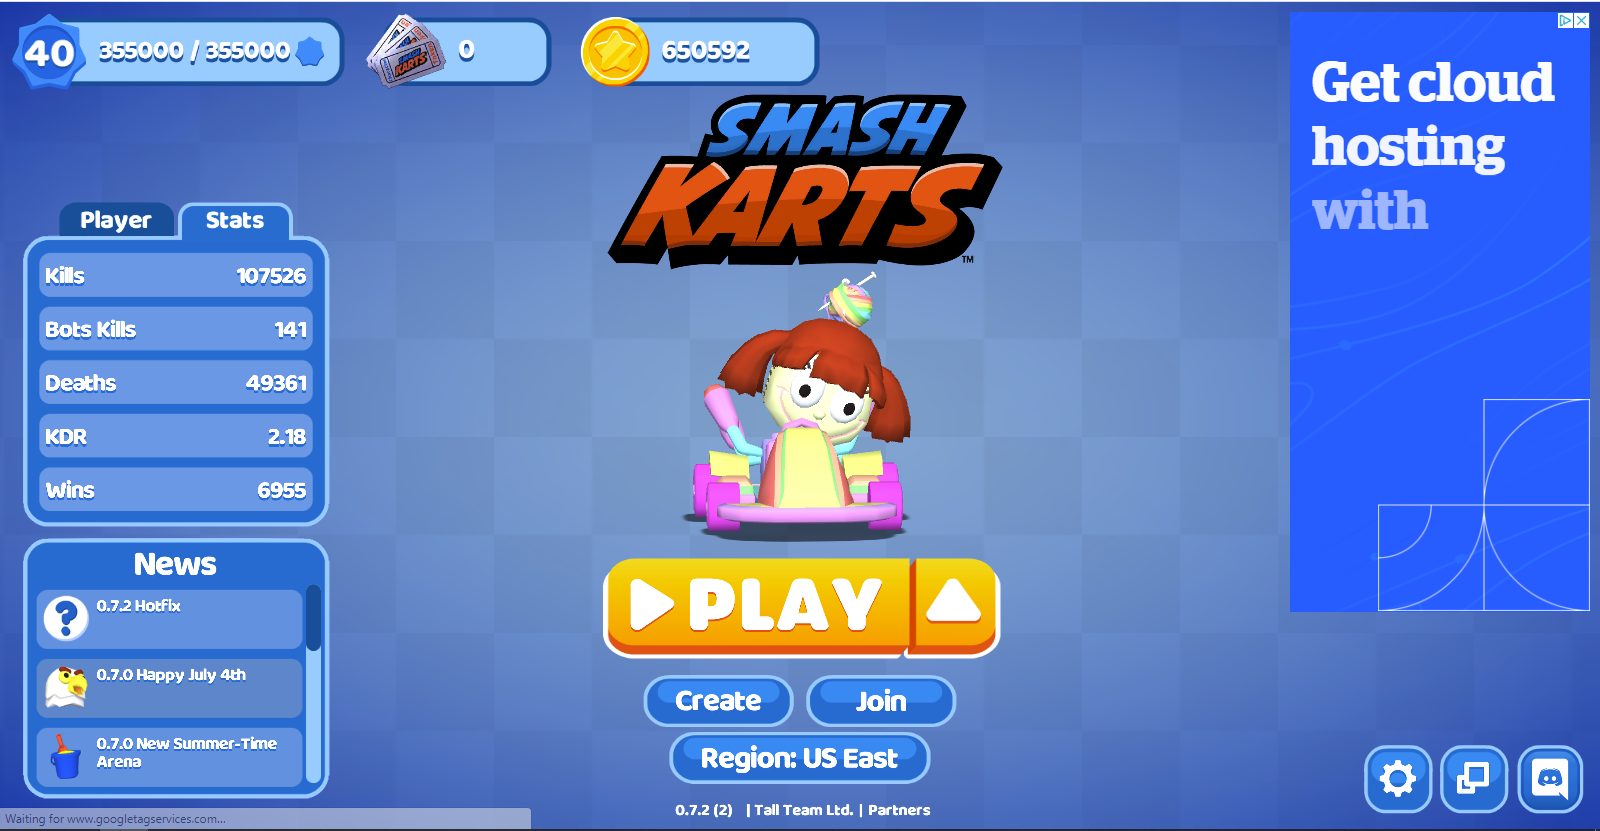
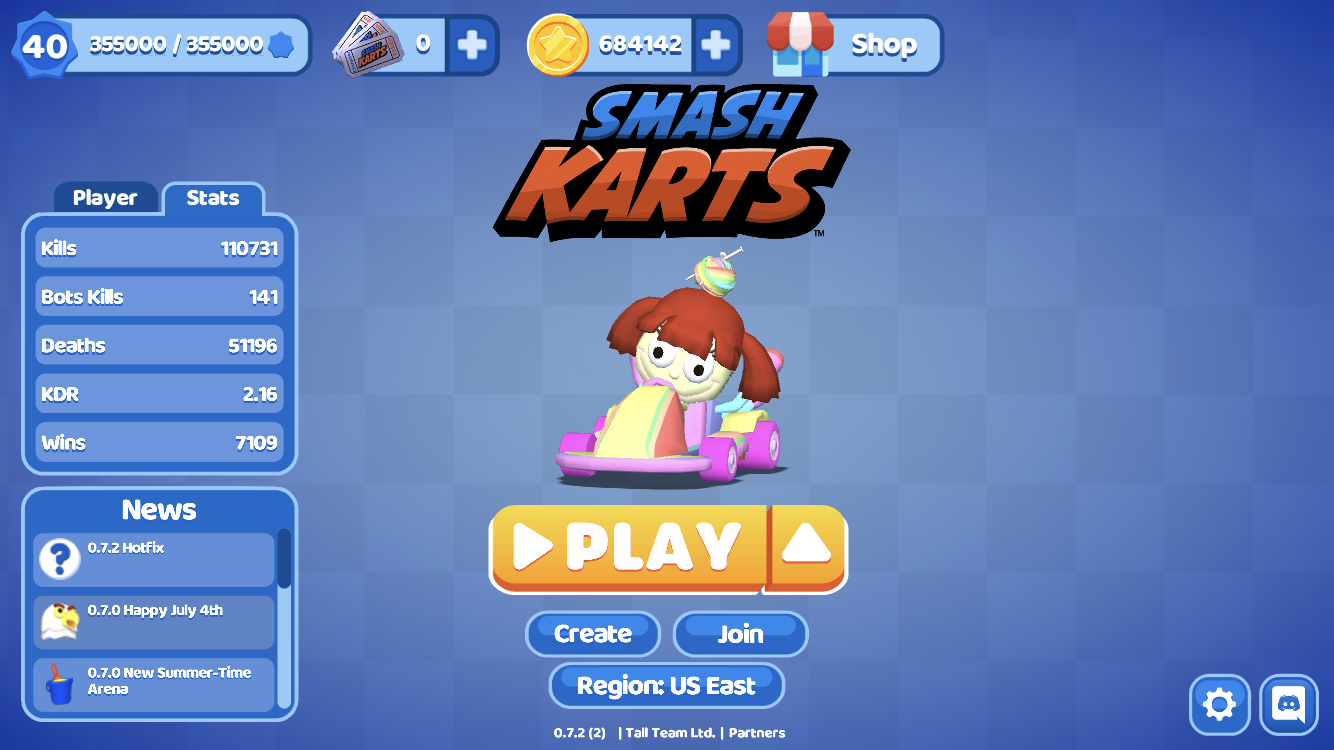
August 19th update

diff --git a/playerList.js b/playerList.js
@@ -73,15 +73,15 @@ let player = [
 	 '2.58',
 	 '',
 	 '7/31/2021'],
-    ['Adam.png',
-	 'Adam' + newPlayer,
-	 18,
-	 361,
-	 64,
-	 369,
-	 '0.98',
-	 9,
-	 '8/11/2021'],
+    ['Adam.png', // plexer
+	 'Adam',
+	 22,
+	 441,
+	 66,
+	 430,
+	 '1.03',
+	 10,
+	 '8/19/2021'],
     ['AimbotLeLe.jpg',
      'Aimbot.LeLe',
      924,
@@ -138,13 +138,13 @@ let player = [
      '5/24/2021'],
     ['AlphaZero.png',
      'AlphaZero',
-     3936,
-     60000,
-     1936,
-     24827,
-     '2.42',
+     4397,
+     68368,
+     1937,
+     28568,
+     '2.39',
      40,
-     '7/29/2021'],
+     '8/19/2021'],
     ['Amrik.png',
      'Amrik',
      239,
@@ -210,13 +210,13 @@ let player = [
      '5/22/2021'],
     ['BAMerica.png',
      'BAM\'erica',
-     330,
-     11267,
-     582,
-     6673,
-     '1.69',
-     9,
-     '5/31/2021'],
+     360,
+     11929,
+     587,
+     7035,
+     '1.70',
+     13,
+     '8/19/2021'],
     ['BazzaBingo.png',
 	 'BazzaBingo',
 	 776,
@@ -253,6 +253,15 @@ let player = [
      '2.58',
      36,
      '8/4/2021'],
+    ['Bonkaroo.png',
+	 'Bonkaroo' + newPlayer,
+	 56,
+	 835,
+	 56,
+	 517,
+	 '1.62',
+	 6,
+	 '8/19/2021'],
     ['boomya.png',
      'boomya',
      3129,
@@ -298,15 +307,15 @@ let player = [
      '1.56',
      30,
      '8/4/2021'],
-    ['BumperBUNNYISGOD.png', // RocketLeague
-     'BumperBUNNYISGOD',
-     2562,
-     36918,
-     2015,
-     16854,
-     '2.19',
-     38,
-     '8/11/2021'],
+    ['ShadowKatSK.png', // RocketLeague
+     'ShadowKatSK',
+     2737,
+     39990,
+     2068,
+     18384,
+     '2.18',
+     40,
+     '8/19/2021'],
     ['cbc.png',
      'cbc',
      208,
@@ -497,7 +506,7 @@ let player = [
      6,
      '5/31/2021'],
     ['DragonBlaster.png',
-	 'DragonBlaster' + newPlayer,
+	 'DragonBlaster',
 	 40,
 	 867,
 	 74,
@@ -569,7 +578,7 @@ let player = [
      22,
      '8/11/2021'],
     ['CATwithHAT.jpg',
-	 'CATwithHAT' + newPlayer,
+	 'CATwithHAT',
 	 754,
 	 10148,
 	 531,
@@ -786,13 +795,13 @@ let player = [
      '8/4/2021'],
     ['haedcase.png',
      'haedcase',
-     6955,
-     107526,
-     140 + 1, //rip
-     49361,
-     '2.18',
+     7109,
+     110731,
+     141,
+     51196,
+     '2.16',
      40,
-     '7/29/2021'],
+     '8/19/2021'],
     ['Harmlesscheese.jpg',
      'Harmlesscheese',
      426,
@@ -1019,14 +1028,14 @@ let player = [
      '',
      ''],
     ['LamboTomST.png',
-	 'LamboTomST' + newPlayer,
-	 403,
-	 6292,
-	 206,
-	 3780,
-	 '1.66',
-	 18,
-	 '8/11/2021'],
+	 'LamboTomST',
+	 450,
+	 6997,
+	 258,
+	 4233,
+	 '1.65',
+	 19,
+	 '8/19/2021'],
     ['LaSalamandra.png',
 	 'LaSalamandra',
 	 130,
@@ -1073,7 +1082,7 @@ let player = [
      6,
      '5/17/2021'],
     ['Luna.jpg', //PoetEmerald
-	 'Luna' + newPlayer,
+	 'Luna',
 	 660,
 	 8427,
 	 1378,
@@ -1099,15 +1108,15 @@ let player = [
      '1.45',
      '',
      ''],
-    ['Magnus Carlsen.png',
+    ['Magnus Carlsen.png', // Eli Shane aka vihaan23
      'Magnus Carlsen',
-     669,
-     10361,
-     170,
-     6052,
-     '1.71',
-     28,
-     '8/11/2021'],
+     745,
+     11855,
+     179,
+     6903,
+     '1.72',
+     30,
+     '8/19/2021'],
     ['mangoboi.png',
      'mangoboi',
      17,
@@ -1216,6 +1225,15 @@ let player = [
      '1.33',
      1,
      '5/22/2021'],
+    ['MotionMoose.png',
+	 'MotionMoose' + newPlayer,
+	 1062,
+	 13342,
+	 1444,
+	 6798,
+	 '1.96',
+	 35,
+	 '8/19/2021'],
     ['MrClawthoriene.png',
      'Mr. Clawthoriene',
      134,
@@ -1288,6 +1306,15 @@ let player = [
 	 '1.35',
 	 11,
 	 '7/31/2021'],
+    ['NicklCoppr.png',
+	 'NicklCoppr' + newPlayer,
+	 5,
+	 172,
+	 52,
+	 168,
+	 '1.02',
+	 7,
+	 '8/19/2021'],
     ['nicky.png',
      'nicky',
      86,
@@ -1306,15 +1333,15 @@ let player = [
      '1.95',
      16,
      '5/18/2021'],
-    ['nicrone.png',
-	 'nicrone',
-	 841,
-	 24704,
-	 4734,
-	 16592,
-	 '1.49',
-	 9,
-	 '7/31/2021'],
+    ['nicronius.png',
+	 'nicronius',
+	 1129,
+	 28985,
+	 4838,
+	 18231,
+	 '1.59',
+	 20,
+	 '8/19/2021'],
     ['nikita.png',
      'nikita',
      1753,
@@ -1443,13 +1470,13 @@ let player = [
      '5/23/2021'],
     ['Outrun.png',
      'OutRun',
-     2550,
-     41467,
-     1662,
-     16282,
-     '2.55',
+     2781,
+     45807,
+     1986,
+     17704,
+     '2.59',
      15,
-     '8/11/2021'],
+     '8/19/2021'],
     ['ozito.png',
      'ozito',
      419,
@@ -1558,6 +1585,15 @@ let player = [
      '2.25',
      '',
      '6/23/2021'],
+    ['punya fanyz.png',
+	 'punya fanyz' + newPlayer,
+	 266,
+	 4778,
+	 48,
+	 3608,
+	 '1.32',
+	 24,
+	 '8/19/2021'],
     ['PWRYUTUBE.png',
 	 'PWRYUTUBE',
 	 480,
@@ -1767,13 +1803,13 @@ let player = [
      '5/28/2021'],
     ['SirBotsalot.png', //GGHX
      'SirBotsalot',
-     1004,
-     13305,
-     170,
-     6993,
-     '1.90',
-     29,
-     '8/11/2021'],
+     1063,
+     14165,
+     176,
+     7386,
+     '1.92',
+     30,
+     '8/19/2021'],
     ['SirFartsALot.png',
      'SirFartsALot',
      426,
@@ -2017,6 +2053,15 @@ let player = [
      '1.66',
      12,
      '6/23/2021'],
+    ['Tesla K.png',
+	 'Tesla K' + newPlayer,
+	 928,
+	 13911,
+	 993,
+	 6726,
+	 '2.07',
+	 20,
+	 '8/19/2021'],
     ['TheCook.png',
      'TheCook',
      257,
@@ -2107,15 +2152,15 @@ let player = [
      '4.16',
      19,
      '7/29/2021'],
-    ['Wass.jpg',
+    ['Wass.png',
      'Wass',
-     134,
-     2778,
-     97,
-     2027,
+     141,
+     2939,
+     98,
+     2149,
      '1.37',
-     11,
-     '5/25/2021'],
+     15,
+     '8/19/2021'],
     ['WhyNotkeepSmashing.png',
      'WhyNotkeepSmashing',
      159,
@@ -2180,7 +2225,7 @@ let player = [
      13,
      '6/16/2021'],
     ['yourdog.png',
-	 'yourdog' + newPlayer,
+	 'yourdog',
 	 119,
 	 2734,
 	 132,
